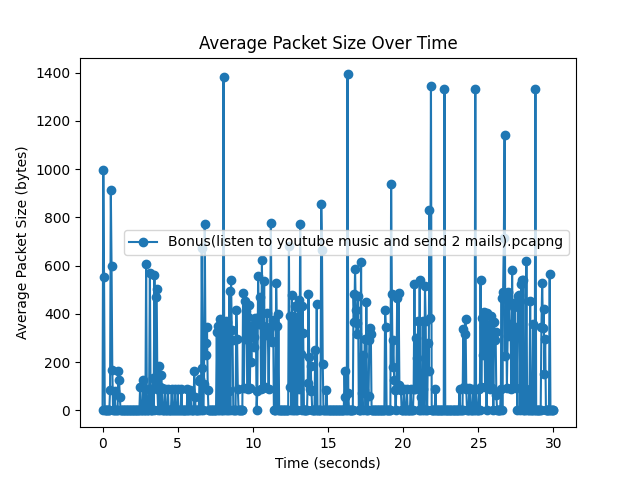
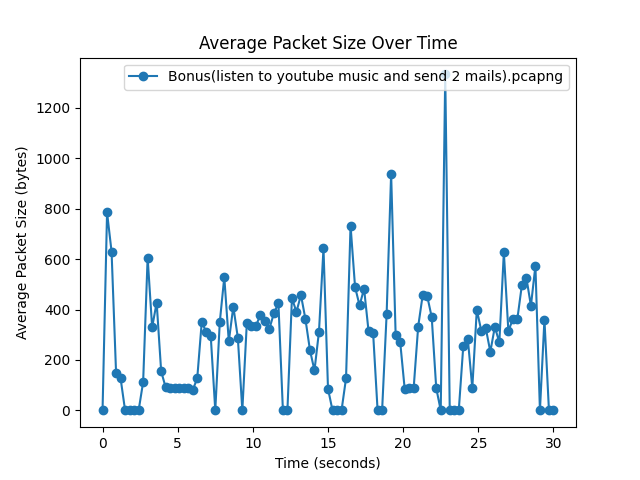
created pcapng folder

diff --git a/src/flow_volume.py b/src/flow_volume.py
@@ -1,12 +1,12 @@
 
 import sys
-from is_bonus import is_bonus
+from type import type
 import pyshark
 import numpy as np
 import matplotlib.pyplot as plt
 
 FIRST_SECS=0
-if is_bonus:
+if type=="bonus" or type=="attacker":
     FIRST_SECS=30
 else:
     FIRST_SECS=5
@@ -16,40 +16,47 @@ def plot_graph(filename):
     first_time = 0
     times = range(0, int(FIRST_SECS / STEP) + 1)
     sizes = [0] * len(times)
-    with pyshark.FileCapture(f"../{filename}") as capture:
-        #,display_filter="(ipv6.dst == 2a06:c701:42ee:b300:98a:9e30:45c2:dcec || ipv6.src == 2a06:c701:42ee:b300:98a:9e30:45c2:dcec || ip.addr == 10.0.0.7)")
+    try:
+        with pyshark.FileCapture(f"../pcapng/{filename}") as capture:
+            #,display_filter="(ipv6.dst == 2a06:c701:42ee:b300:98a:9e30:45c2:dcec || ipv6.src == 2a06:c701:42ee:b300:98a:9e30:45c2:dcec || ip.addr == 10.0.0.7)")
 
 
-        for packet in capture:
-            if first_time==0:
-                first_time=float(packet.sniff_time.timestamp())
+            for packet in capture:
+                if first_time==0:
+                    first_time=float(packet.sniff_time.timestamp())
 
-            index=int((float(packet.sniff_time.timestamp())-first_time)/STEP)+1
-            if index>=(int(FIRST_SECS/STEP) -1):
-                break
+                index=int((float(packet.sniff_time.timestamp())-first_time)/STEP)+1
+                if index>=(int(FIRST_SECS/STEP) -1):
+                    break
 
-            sizes[index]+=(int(packet.length))
+                sizes[index]+=(int(packet.length))
 
-        x = np.array(times) * STEP
-        length = len(x)
-        sizes = np.array(sizes)
-        matrix = (1 - np.tril(np.ones([length, length]), -1))
-        y = sizes.dot(matrix)/1e3
+            x = np.array(times) * STEP
+            length = len(x)
+            sizes = np.array(sizes)
+            matrix = (1 - np.tril(np.ones([length, length]), -1))
+            y = sizes.dot(matrix)/1e3
+    except FileNotFoundError:
+        print("Error: file was not found.")
 
     plt.plot(x, y,marker='o')
 x=0
-if is_bonus:
-    x = filenames = ["Bonus(listen to youtube music and send 2 mails).pcapng"]
+if type=="bonus":
+    x =  ["Bonus(listen to youtube music and send 2 mails).pcapng"]
+elif type=="attacker":
+    x = ["randomAppUsage.pcapng"]
 else:
-    x=filenames=["chrome.pcapng","edge.pcapng","youtube_Video.pcapng","youtube_Music.pcapng","discord(video conferencing).pcapng"]
-for filename in filenames:
+    x=["chrome.pcapng","edge.pcapng","youtube_Video.pcapng","youtube_Music.pcapng","discord(video conferencing).pcapng"]
+for filename in x:
     plot_graph(filename)
-plt.legend(filenames)
+plt.legend(x)
 plt.title('Flow volume - overall number of kilobytes transmitted')
 plt.xlabel('Time (seconds)')
 plt.ylabel('Size (Kilobytes)')
-if is_bonus:
+if type=="bonus":
     plt.savefig(f"../res/bonus_{sys.argv[0].split("\\")[-1][:-3]}")
+elif type=="attacker":
+    plt.savefig(f"../res/randomAppUsage_{sys.argv[0].split("\\")[-1][:-3]}")
 else:
     plt.savefig(f"../res/{sys.argv[0].split("\\")[-1][:-3]}")
 plt.show()

diff --git a/src/avg_packet_size.py b/src/avg_packet_size.py
@@ -1,6 +1,6 @@
 
 import sys
-from is_bonus import is_bonus
+from type import type
 import pyshark
 import numpy as np
 import matplotlib.pyplot as plt
@@ -8,31 +8,37 @@ import matplotlib.pyplot as plt
 
 
 FIRST_SECS=0
-if is_bonus:
+STEP=0.05
+if type=="bonus" or type=="attacker":
     FIRST_SECS=30
+    STEP = 0.3
 else:
     FIRST_SECS=5
-STEP=0.05
+    STEP=0.05
+
 
 def plot_graph(filename):
     first_time = 0
     times = range(0, int(FIRST_SECS / STEP) + 1)
     sizes = [0] * len(times)
     count = [0] * len(times)
-    with pyshark.FileCapture(f"../{filename}") as capture:
-        #,display_filter="(ipv6.dst == 2a06:c701:42ee:b300:98a:9e30:45c2:dcec || ipv6.src == 2a06:c701:42ee:b300:98a:9e30:45c2:dcec || ip.addr == 10.0.0.7)")
+    try:
+        with pyshark.FileCapture(f"../pcapng/{filename}") as capture:
+    #display_filter="(ipv6.dst == 2a06:c701:42ee:b300:98a:9e30:45c2:dcec || ipv6.src == 2a06:c701:42ee:b300:98a:9e30:45c2:dcec || ip.addr == 10.0.0.7)")
 
 
-        for packet in capture:
-            if first_time==0:
-                first_time=float(packet.sniff_time.timestamp())
+            for packet in capture:
+                if first_time==0:
+                    first_time=float(packet.sniff_time.timestamp())
 
-            index=int((float(packet.sniff_time.timestamp())-first_time)/STEP)+1
-            if index>=(int(FIRST_SECS/STEP) -1):
-                break
+                index=int((float(packet.sniff_time.timestamp())-first_time)/STEP)+1
+                if index>=(int(FIRST_SECS/STEP) -1):
+                    break
 
-            sizes[index]+=(int(packet.length))
-            count[index]+=1
+                sizes[index]+=(int(packet.length))
+                count[index]+=1
+    except FileNotFoundError:
+        print("Error: file was not found.")
 
 
     for i in range(len(times)):
@@ -46,18 +52,23 @@ def plot_graph(filename):
 
     plt.plot(x, y,marker='o')
 x=0
-if is_bonus:
-    x = filenames = ["Bonus(listen to youtube music and send 2 mails).pcapng"]
+
+if type=="bonus":
+    x =  ["Bonus(listen to youtube music and send 2 mails).pcapng"]
+elif type=="attacker":
+    x = ["randomAppUsage.pcapng"]
 else:
-    x=filenames=["chrome.pcapng","edge.pcapng","youtube_Video.pcapng","youtube_Music.pcapng","discord(video conferencing).pcapng"]
-for filename in filenames:
+    x=["chrome.pcapng","edge.pcapng","youtube_Video.pcapng","youtube_Music.pcapng","discord(video conferencing).pcapng"]
+for filename in x:
     plot_graph(filename)
-plt.legend(filenames)
+plt.legend(x)
 plt.title('Average Packet Size Over Time')
 plt.xlabel('Time (seconds)')
 plt.ylabel('Average Packet Size (bytes)')
-if is_bonus:
+if type=="bonus":
     plt.savefig(f"../res/bonus_{sys.argv[0].split("\\")[-1][:-3]}")
+elif type=="attacker":
+    plt.savefig(f"../res/randomAppUsage_{sys.argv[0].split("\\")[-1][:-3]}")
 else:
     plt.savefig(f"../res/{sys.argv[0].split("\\")[-1][:-3]}")
 plt.show()

diff --git a/src/avg_interarrival.py b/src/avg_interarrival.py
@@ -1,30 +1,37 @@
 
 import sys
-from is_bonus import is_bonus
+from type import type
 import pyshark
 import numpy as np
 import matplotlib.pyplot as plt
 
 def get_avg_time_interval(filename):
-    with pyshark.FileCapture(f"../{filename}",keep_packets=True) as capture:
-        list_capture=list(capture)
-        length=len(list_capture)
-        return (float(list_capture[-1].sniff_time.timestamp())-float(list_capture[0].sniff_time.timestamp()))/(length-1)
+    try:
+        with pyshark.FileCapture(f"../pcapng/{filename}",keep_packets=True) as capture:
+            list_capture=list(capture)
+            length=len(list_capture)
+            return (float(list_capture[-1].sniff_time.timestamp())-float(list_capture[0].sniff_time.timestamp()))/(length-1)
+    except FileNotFoundError:
+        print("Error: file was not found.")
 x=0
-if is_bonus:
-    x = filenames = ["Bonus(listen to youtube music and send 2 mails).pcapng"]
+if type=="bonus":
+    x =  ["Bonus(listen to youtube music and send 2 mails).pcapng"]
+elif type=="attacker":
+    x = ["randomAppUsage.pcapng"]
 else:
-    x=filenames=["chrome.pcapng","edge.pcapng","youtube_Video.pcapng","youtube_Music.pcapng","discord(video conferencing).pcapng"]
+    x=["chrome.pcapng","edge.pcapng","youtube_Video.pcapng","youtube_Music.pcapng","discord(video conferencing).pcapng"]
 #bonus
 
-colors = plt.colormaps['tab10'](np.arange(len(filenames)))
-plt.bar(x, ([get_avg_time_interval(filename) for filename in filenames]), color=colors)
+colors = plt.colormaps['tab10'](np.arange(len(x)))
+plt.bar(x, ([get_avg_time_interval(filename) for filename in x]), color=colors)
 
 plt.title('Packets inter-arrival average')
 plt.xlabel('')
 plt.ylabel('Seconds')
-if is_bonus:
+if type=="bonus":
     plt.savefig(f"../res/bonus_{sys.argv[0].split("\\")[-1][:-3]}")
+elif type=="attacker":
+    plt.savefig(f"../res/randomAppUsage_{sys.argv[0].split("\\")[-1][:-3]}")
 else:
     plt.savefig(f"../res/{sys.argv[0].split("\\")[-1][:-3]}")
 plt.show()

diff --git a/src/packets_count.py b/src/packets_count.py
@@ -1,12 +1,12 @@
 
 import sys
-from is_bonus import is_bonus
+from type import type
 import pyshark
 import numpy as np
 import matplotlib.pyplot as plt
 
 FIRST_SECS = 0
-if is_bonus:
+if type=="bonus" or type=="attacker":
     FIRST_SECS=30
 else:
     FIRST_SECS=5
@@ -16,7 +16,7 @@ def plot_graph(filename):
     first_time = 0
     times = range(0, int(FIRST_SECS / STEP) + 1)
     count = [0] * len(times)
-    with pyshark.FileCapture(f"../{filename}") as capture:
+    with pyshark.FileCapture(f"../pcapng/{filename}") as capture:
         #,display_filter="(ipv6.dst == 2a06:c701:42ee:b300:98a:9e30:45c2:dcec || ipv6.src == 2a06:c701:42ee:b300:98a:9e30:45c2:dcec || ip.addr == 10.0.0.7)")
 
 
@@ -39,18 +39,22 @@ def plot_graph(filename):
 
     plt.plot(x, y,marker='o')
 x=0
-if is_bonus:
-    x = filenames = ["Bonus(listen to youtube music and send 2 mails).pcapng"]
+if type=="bonus":
+    x =  ["Bonus(listen to youtube music and send 2 mails).pcapng"]
+elif type=="attacker":
+    x = ["randomAppUsage.pcapng"]
 else:
-    x=filenames=["chrome.pcapng","edge.pcapng","youtube_Video.pcapng","youtube_Music.pcapng","discord(video conferencing).pcapng"]
-for filename in filenames:
+    x=["chrome.pcapng","edge.pcapng","youtube_Video.pcapng","youtube_Music.pcapng","discord(video conferencing).pcapng"]
+for filename in x:
     plot_graph(filename)
-plt.legend(filenames)
+plt.legend(x)
 plt.title('Packets count Over Time')
 plt.xlabel('Time (seconds)')
 plt.ylabel('Number of packets')
-if is_bonus:
+if type=="bonus":
     plt.savefig(f"../res/bonus_{sys.argv[0].split("\\")[-1][:-3]}")
+elif type=="attacker":
+    plt.savefig(f"../res/randomAppUsage_{sys.argv[0].split("\\")[-1][:-3]}")
 else:
     plt.savefig(f"../res/{sys.argv[0].split("\\")[-1][:-3]}")
 plt.show()

diff --git a/src/type.py b/src/type.py
@@ -1,1 +1,3 @@
-is_bonus=True
+type="regular"
+#type="bonus"
+#type="attacker"

diff --git a/README.md b/README.md
@@ -14,13 +14,13 @@ This project analyzes traffic characteristics of common apps (web browsing, stre
 - Python 3 (clean installation)
 - Install dependencies:
 ```bash
-pip install pandas numpy matplotlib pyshark
+pip install numpy matplotlib pyshark
 ```
 
 ### Run the Analysis:
 ```bash
-git clone <https://github.com/vintergal/networks_final_project>
-cd <https://github.com/vintergal/networks_final_project>/src
+git clone https://github.com/vintergal/networks_final_project
+cd src
 python avg_packet_size.py
 python avg_interarrival.py
 python packets_count.py
@@ -40,7 +40,7 @@ Results are shown in the `/res/` folder.
 ├── /src/                     # Python code
 ├── /res/                     # Analysis results (figures, plots)
 ├── /papers/                  # Research papers (excluded from GitHub)
-└── /pcap/                    # pcap files from wireshark (excluded from GitHub)
+└── /pcapng/                    # pcapng files from wireshark (excluded from GitHub)
 
 ```
 
@@ -56,6 +56,6 @@ Results are shown in the `/res/` folder.
 
 ## Submission Details
 - GitHub repo includes the full code, results, and final report.
-- `.pcap` files provided via cloud links (not included in GitHub).
+- `.pcapng` files provided via cloud links (not included in GitHub).
 - Code handles edge cases, uses relative paths, and is Linux-compatible.
 
